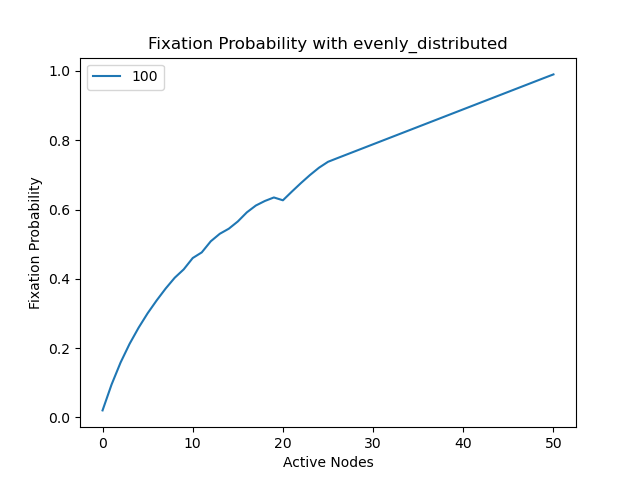
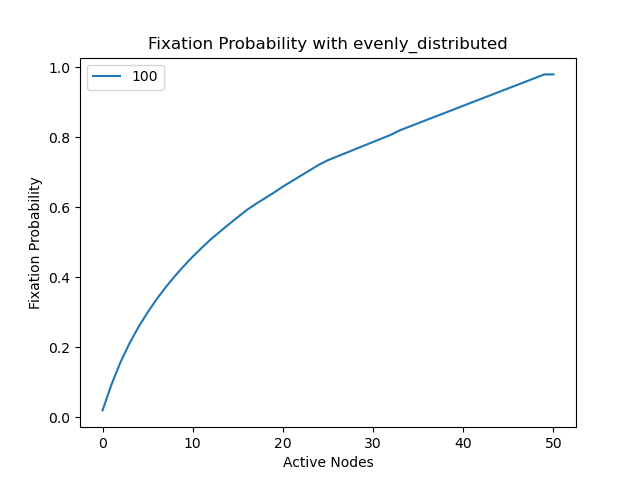
barabasi 10

diff --git a/Experiment_circle.py b/Experiment_circle.py
@@ -167,20 +167,21 @@ def initialize_active_nodes(G, setup, active_nodes):
         #print("Active Nodes", list(range(0,active_nodes)))
 
     elif setup == Active_Node_Setup(2):
-        #list_of_active = [(x*round(len(G.nodes())/active_nodes)) % len(G.nodes()) for x in range(active_nodes)]
-        list_of_active = []
-        if active_nodes > 0:
-            number = round(len(G.nodes())/active_nodes) if round(len(G.nodes())/active_nodes) >= 2 else 2
-            list_of_active = list(range(0,len(G.nodes()),number))
-        if len(list_of_active) < active_nodes:
-            for i in range(0,len(G.nodes())):
-                if len(list_of_active) < active_nodes:
-                    if i not in list_of_active:
-                        list_of_active.append(i)
-                else:
-                    break
-        else:
-            list_of_active = list_of_active[:active_nodes]
+        list_of_active = np.round(np.linspace(0,len(G.nodes())-1,active_nodes,endpoint=False)).astype(int)
+        # #list_of_active = [(x*round(len(G.nodes())/active_nodes)) % len(G.nodes()) for x in range(active_nodes)]
+        # list_of_active = []
+        # if active_nodes > 0:
+        #     number = round(len(G.nodes())/active_nodes) if round(len(G.nodes())/active_nodes) >= 2 else 2
+        #     list_of_active = list(range(0,len(G.nodes()),number))
+        # if len(list_of_active) < active_nodes:
+        #     for i in range(0,len(G.nodes())):
+        #         if len(list_of_active) < active_nodes:
+        #             if i not in list_of_active:
+        #                 list_of_active.append(i)
+        #         else:
+        #             break
+        # else:
+        #     list_of_active = list_of_active[:active_nodes]
         for i in list_of_active:
             G.nodes[i]['active'] = True
         #print("Active Nodes", list_of_active)
@@ -382,7 +383,7 @@ def compare_active_node_choosing_strategies(graph_size, fitness):
 def fixation_prob_active_nodes(graph_size,setup,fitneses):
     active_node_list = list(range(0,graph_size + 1))
     before_time = time.time()
-    path = 'Circle_Graph_Experiments/cycle_fitness_experiment_new2/cycle_experiments_f_' + str(fitneses)+ '_g_size_' + str(graph_size) + '_setup_' + str(setup.name)
+    path = 'Circle_Graph_Experiments/cycle_fitness_experiment_new3/cycle_experiments_f_' + str(fitneses)+ '_g_size_' + str(graph_size) + '_setup_' + str(setup.name)
     f = open(path + '.txt', '+w')
     for fitness in fitneses:
         fixation_list = []
@@ -423,8 +424,8 @@ def fixation_prob_active_nodes(graph_size,setup,fitneses):
 if __name__ == '__main__':
     graph_size = 50
     fitness = 5
-    # fitneses = [0.1, 0.2, 0.5, 1, 1.5,10,100]
-    fitneses = [100]
+    fitneses = [0.1, 0.2, 0.5, 1, 1.5,10,100]
+    # fitneses = [100]
 
 
     # G = Graphs.create_circle_graph(3)
@@ -438,6 +439,7 @@ if __name__ == '__main__':
     # compare_active_node_choosing_strategies(graph_size,fitness)
     # setup = Active_Node_Setup(1)
     # fixation_prob_active_nodes(graph_size,setup,fitneses)
+
     setup = Active_Node_Setup(2)
     fixation_prob_active_nodes(graph_size,setup,fitneses)
 

diff --git a/Moran_Process.py b/Moran_Process.py
@@ -21,8 +21,8 @@ def plot_degree(degree_list, numeric_data,legend):
     axs.legend(loc=0, prop={'size': 6})
     axs.set_ylabel("Fixation Probability")
     axs.set_xlabel("Degree")
-    path = r'C:\Users\joac1\Documents\Universitet\6. Semester\Bachelorprojekt\Moran Process\Preliminary_Experiments\degree_' + str(legend) + '_Active_Probability'
-    plt.savefig(path.replace('\\', '\\\\') + ".png")
+    path = 'Preliminary_Experiments/degree_' + str(legend) + '_Active_Probability'
+    plt.savefig(path + ".png")
 
     plt.show()
 
@@ -37,7 +37,7 @@ def plot_temperature(temp_list, numeric_data, legend):
     axs.set_ylabel("Fixation Probability")
     axs.set_xlabel("Temperature")
 
-    path = r'C:\Users\joac1\Documents\Universitet\6. Semester\Bachelorprojekt\Moran Process\Preliminary_Experiments\temperature_' + str(legend) + '_Active_Probability'
+    path = 'Preliminary_Experiments/degree_' + str(legend) + '_Active_Probability'
     plt.savefig(path.replace('\\', '\\\\') + ".png")
 
     plt.show()
@@ -53,7 +53,7 @@ def plot_centrality(centrality_list, numeric_data, legend):
     axs.set_ylabel("Fixation Probability")
     axs.set_xlabel("Centrality")
 
-    path = r'C:\Users\joac1\Documents\Universitet\6. Semester\Bachelorprojekt\Moran Process\Preliminary_Experiments\centrality_' + str(legend) + '_Active_Probability'
+    path = 'Preliminary_Experiments/degree_' + str(legend) + '_Active_Probability'
     plt.savefig(path.replace('\\', '\\\\') + ".png")
 
     plt.show()
@@ -507,7 +507,7 @@ def make_histogram(fitness,graph_size):
 
 if __name__ == "__main__":
     fitness = 0.1
-    graph_size = 9
+    graph_size = 4
 
     # G = Graphs.create_complete_graph(graph_size)
     # G = Graphs.create_star_graph(graph_size)
